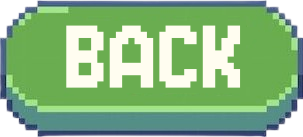
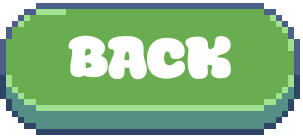
new style

Changed region(s): [[0.0, 0.0, 1.0, 1.0], [0.2079, 0.1752, 0.802, 0.6423]]

diff --git a/menu.py b/menu.py
@@ -6,45 +6,71 @@ screen = pygame.display.set_mode((1920, 1080))
 screen.fill((136, 162, 193))
 font = pygame.font.Font("font/Super Sense.ttf", 100)
 titre = font.render("Des mineurs", 1, (255, 255, 255))
+
+# Images
 boutton_play = pygame.image.load("image/play.png").convert_alpha()
 boutton_score = pygame.image.load("image/score.png").convert_alpha()
 boutton_exit = pygame.image.load("image/exit.png").convert_alpha()
 boutton_back = pygame.image.load("image/back.png").convert_alpha()
+boutton_playpressed = pygame.image.load("image/playpressed.png").convert_alpha()
+boutton_scorepressed = pygame.image.load("image/scorepressed.png").convert_alpha()
+boutton_exitpressed = pygame.image.load("image/exitpressed.png").convert_alpha()
+boutton_backpressed = pygame.image.load("image/backpressed.png").convert_alpha()
+difficulty_pad = pygame.image.load("image/difficultypad.png").convert_alpha()
+titleimage = pygame.image.load("image/title.png").convert_alpha()
+titleresized = pygame.transform.scale(titleimage, (1000, 150))
 
+# Images positions
 play_position = (800, 350)
 score_position = (800, 550)
 exit_position = (800, 750)
-back_position = (550, 750)
-play_position2 = (1050, 750)
+back_position = (25, 925)
+play_position2 = (1590, 925)
+# backscore_position = (25, 925)
 
+# interactions with the images
 rect_play = boutton_play.get_rect(topleft=play_position)
 rect_score = boutton_score.get_rect(topleft=score_position)
 rect_exit = boutton_exit.get_rect(topleft=exit_position)
 rect_back = boutton_back.get_rect(topleft=back_position)
 rect_play2 = boutton_play.get_rect(topleft=play_position2)
 
-
 class Menu:
     def __init__(self):
         self.main_menu = True
-        self.difficulties = {"Easy": (9, 9, 10), "Medium": (16, 16, 40), "Hard": (30, 16, 99)}
-        self.radio_positions = [(350, 400), (800, 400), (1250, 400)]
+        self.score_menu = False
+        self.difficulties = {"Easy": (9, 9, 10), "Medium": (16, 16, 40), "Hard": (30, 16, 99)} # Difficulty levels (w/h/mines)
+        self.radio_positions = [(115, 400), (115, 500), (115, 600)] # Difficulty buttons positions
         self.selected_difficulty = 0
 
     def display(self, screen, text):
         ingame = True
         while ingame:
             mouse = pygame.mouse.get_pos()
-            screen.fill((136, 162, 193))
-            screen.blit(text, (680, 100))
+            screen.fill((136, 162, 193)) # Fill the screen with a color
+            # screen.blit(text, (600, 50))
+            screen.blit(titleresized, (475,20))
 
-            if self.main_menu:
+            if self.main_menu: # Show main menu
                 screen.blit(boutton_play, play_position)
                 screen.blit(boutton_score, score_position)
                 screen.blit(boutton_exit, exit_position)
-            else:
+
+            elif self.score_menu: # Show score page
+                screen.blit(boutton_back, back_position)
+                font = pygame.font.Font("font/Super Sense.ttf", 50)
+                i = 1
+                y = 200
+                while i <= 6:
+                    i = i + 1
+                    y = y + 100
+                    screen.blit(font.render("Party", 1, (255, 255, 255)), (400, y))
+
+            else: # Show start menu
+                screen.blit(difficulty_pad, (50, 160))
+                
                 for i, (difficulty, pos) in enumerate(zip(self.difficulties.keys(), self.radio_positions)):
-                    font = pygame.font.Font("font/Super Sense.ttf", 75)
+                    font = pygame.font.Font("font/Super Sense.ttf", 70)
                     
                     pygame.draw.circle(screen, (255, 255, 255), pos, 15)
                     if i == self.selected_difficulty:
@@ -52,15 +78,18 @@ class Menu:
 
                     label = font.render(difficulty, True, (255, 255, 255))
                     screen.blit(label, (pos[0] + 30, pos[1] - 30))
-                
-                screen.blit(font.render("W = ", 1, (255, 255, 255)), (450, 550))
-                screen.blit(font.render("H = ", 1, (255, 255, 255)), (750, 550))
-                screen.blit(font.render("Mines = ", 1, (255, 255, 255)), (1050, 550))
+
+                font = pygame.font.Font("font/Super Sense.ttf", 50)
+                screen.blit(font.render("Difficulty :", 1, (255, 255, 255)), (115, 250))
+                font = pygame.font.Font("font/Super Sense.ttf", 70)
+                screen.blit(font.render("W = ", 1, (255, 255, 255)), (600, 250))
+                screen.blit(font.render("H = ", 1, (255, 255, 255)), (900, 250))
+                screen.blit(font.render("Mines = ", 1, (255, 255, 255)), (1200, 250))
 
                 w, h, mines = list(self.difficulties.values())[self.selected_difficulty]
-                screen.blit(font.render(str(w), 1, (255, 255, 255)), (600, 550))
-                screen.blit(font.render(str(h), 1, (255, 255, 255)), (900, 550))
-                screen.blit(font.render(str(mines), 1, (255, 255, 255)), (1400, 550))
+                screen.blit(font.render(str(w), 1, (255, 255, 255)), (750, 250))
+                screen.blit(font.render(str(h), 1, (255, 255, 255)), (1050, 250))
+                screen.blit(font.render(str(mines), 1, (255, 255, 255)), (1550, 250))
 
                 screen.blit(boutton_back, back_position)
                 screen.blit(boutton_play, play_position2)
@@ -75,13 +104,19 @@ class Menu:
                         if rect_play.collidepoint(mouse):
                             self.main_menu = False
                         elif rect_score.collidepoint(mouse):
-                            screen.blit(font.render("LES MINEURS", 1, (255, 255, 255)), (600, 1000))
-                            pygame.display.flip()
+                            self.main_menu = False
+                            self.score_menu = True
                         elif rect_exit.collidepoint(mouse):
                             ingame = False
+
                     else:
                         if rect_back.collidepoint(mouse):
                             self.main_menu = True
+                            self.score_menu = False
+                        elif rect_play2.collidepoint(mouse):
+                            # start_game()
+                            print("launch game")
+                            screen.blit(font.render("LES MINEURS", 1, (255, 255, 255)), (800, 550))
 
                         for i, pos in enumerate(self.radio_positions):
                             distance = ((mouse[0] - pos[0]) ** 2 + (mouse[1] - pos[1]) ** 2) ** 0.5
